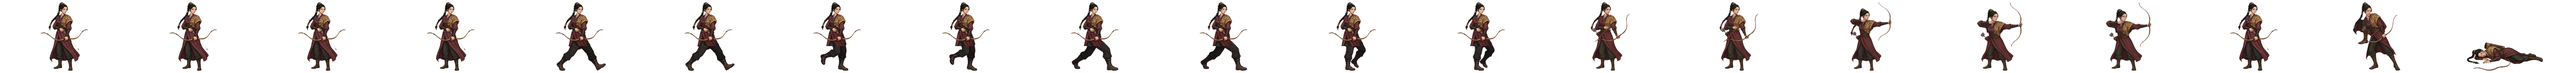
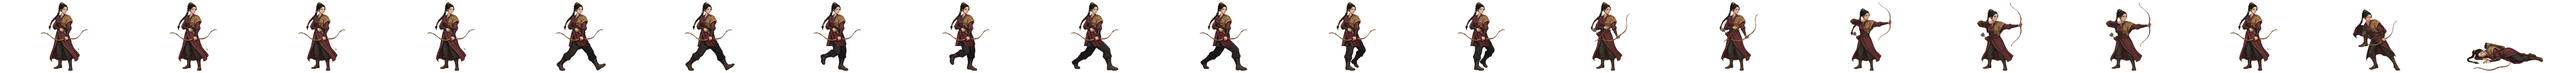
쇠눈 전투 20셀 띠 적용 · 단궁 피격 컷 세로로 늘어난 것 바로잡음
Claude-Session: https://claude.ai/code/session_01TRiuNAG8xSjdmjCFpc8Rd5

Changed region(s): [[0.9062, 0.0938, 0.9375, 0.6562], [0.9062, 0.7188, 0.9375, 0.8125]]

diff --git a/src/realm/data/art.ts b/src/realm/data/art.ts
@@ -495,9 +495,10 @@ export const GEN_ANIM: Readonly<Partial<Record<string, { ar: number; body: numbe
   beombal: { ar: 280 / 160, body: 0.9375 }, // 11-08 범발 · Codex 정규화 셀(대기·갯내 4실보행 하체·준비/찌르기/피격) + 아틀라스 우하단 쓰러짐 · 뺨 줄무늬는 오른쪽을 보는 몸의 왼뺨(원초상과 같은 쪽)
   hwalmi: { ar: 280 / 160, body: 0.9375, bow: true }, // 11-08 활미 · 제미나이 u/0 2×2 활 동작(준비·만작·발사) + 피격 + 새 대화 쓰러짐 · 갯내 4실보행 하체 · 교정 초상(점 없음) 기준
   dangung: { ar: 280 / 160, body: 0.9375, bow: true }, // 11-08 단궁 · 제미나이 u/0 2×2(준비·만작·발사·피격 · 칸 선은 지움) + 새 대화 쓰러짐 · 갯내 4실보행 하체(바지는 짙게) · 걷는 동안 긴 두루마기가 무릎 위로 짧아진다
+  soenun: { ar: 280 / 160, body: 0.9375 }, // 11-08 쇠눈 · 제미나이 u/2 2×2(겨눔·찌르기·거둠·피격) + 새 대화 쓰러짐 · 갯내 4실보행 하체(짙은 바지 · 걷는 동안 쇠 정강이받이는 장화로 보인다) · 창 자루는 걷기에도 남긴다
 }
 /** 제 그림이 있는 장수 (장수 id → gen-<이름>.png 의 이름) */
-export const GEN_OWN: Readonly<Record<string, string>> = { 'haseulla-ruler': 'dangung', 'goguryeo-2': 'hwalmi', 'maek-1': 'beombal', 'wander-04': 'sori', 'dongokjeo-2': 'sogeumbi', 'golbeol-2': 'budeul', 'michuhol-2': 'gaennae', 'jm-jumong': 'jumong', 'mh-onjo': 'onjo', 'tut-onjo': 'onjo', 'mh-soseono': 'soseono', 'sr-aryeong': 'aryeong', 'jm-haedal': 'haedal', 'buyeo-1': 'haedal', 'jm-songbi': 'songbi', 'biryuna-ruler': 'songbi', 'sr-hyeokgeose': 'hyeokgeose', 'jm-oi': 'oi', 'jm-mari': 'mari', 'jm-daeso': 'daeso', 'mh-eureum': 'eureum', 'mh-ogan': 'ogan', 'tut-ogan': 'ogan', 'goguryeo-ruler': 'damul', 'jm-songyang': 'songyang', chief: 'maenun', 'jm-hyeopbo': 'hyeopbo', 'tut-malgalgi': 'malgalgi', 'sabeol-1': 'malgalgi', 'tut-haebi': 'haebi', 'guya-3': 'soebi', 'anya-1': 'ara', 'gj-dana': 'ara', 'gj-heo': 'heo', 'gammun-2': 'gamsil' }
+export const GEN_OWN: Readonly<Record<string, string>> = { 'gwanna-2': 'soenun', 'haseulla-ruler': 'dangung', 'goguryeo-2': 'hwalmi', 'maek-1': 'beombal', 'wander-04': 'sori', 'dongokjeo-2': 'sogeumbi', 'golbeol-2': 'budeul', 'michuhol-2': 'gaennae', 'jm-jumong': 'jumong', 'mh-onjo': 'onjo', 'tut-onjo': 'onjo', 'mh-soseono': 'soseono', 'sr-aryeong': 'aryeong', 'jm-haedal': 'haedal', 'buyeo-1': 'haedal', 'jm-songbi': 'songbi', 'biryuna-ruler': 'songbi', 'sr-hyeokgeose': 'hyeokgeose', 'jm-oi': 'oi', 'jm-mari': 'mari', 'jm-daeso': 'daeso', 'mh-eureum': 'eureum', 'mh-ogan': 'ogan', 'tut-ogan': 'ogan', 'goguryeo-ruler': 'damul', 'jm-songyang': 'songyang', chief: 'maenun', 'jm-hyeopbo': 'hyeopbo', 'tut-malgalgi': 'malgalgi', 'sabeol-1': 'malgalgi', 'tut-haebi': 'haebi', 'guya-3': 'soebi', 'anya-1': 'ara', 'gj-dana': 'ara', 'gj-heo': 'heo', 'gammun-2': 'gamsil' }
 type GenLook = { readonly id?: string; readonly look: 'g' | 'w'; readonly traits: readonly string[]; readonly mu: number; readonly tong: number; readonly ryak: number; readonly chi: number; readonly deok: number }
 /**
  * 장수 → 싸움터에 설 그림 (순수). 제 그림이 있으면 그것 · 명궁이면 활 · 통솔이 가장 높고 비기가 날 만큼(tacArtMinStat) 높은 남자는 말 탄 장수 ·

diff --git a/src/ui/realm/battle-strikes.ts b/src/ui/realm/battle-strikes.ts
@@ -151,6 +151,7 @@ const CONTACT: Readonly<Record<string, [number, number, number]>> = {
   'gen-beombal': [14, 248 / 280, 51 / 160],
   'gen-hwalmi': [14, 204 / 280, 50 / 160],
   'gen-dangung': [14, 200 / 280, 45 / 160],
+  'gen-soenun': [14, 267 / 280, 54 / 160],
 }
 
 const HEAVY_SWINGS = new Set(['axe', 'gen-soebi', 'gen-haebi', 'gen-gamsil'])

diff --git a/docs/realm/SPRITE-SOENUN.md b/docs/realm/SPRITE-SOENUN.md
@@ -1,0 +1,7 @@
+# 관나 쇠눈 비각성 전투 애니메이션 (11-08 Claude)
+
+- 게임 ID `gwanna-2`, 초상 `w-42-gwanna-soenun`, 여성 27세, 양손 긴 창. 띠 `public/realm/anim2/gen-soenun.png` 280×160×20, `GEN_ANIM.soenun` ar 1.75 / body .9375, 창끝 접촉 frame 14 (267, 54).
+- 원본(assets_src/realm/gemini/battle): `soenun-actions-source.png`(u/2 새 대화 한 번 · 1:1 · 겨눔·찌르기·거둠·피격 · 옅은 칸 선은 지움) · `soenun-fall2-source.png`(u/2 새 대화 · 누운 몸과 떨어진 창). 대화 u/2 `222003acf6808775` · `e11f21bac31ad74c`.
+- 대기는 Codex 11-07 `soenun-ready-final-candidate.png`, 걷기는 갯내 4실보행 하체(바지 빛 짙게) 위에 쇠눈 상체(y≤100) + 몸 왼쪽 아래로 내려온 창 자루(x<64)를 남겼다. **걷는 동안 쇠 정강이받이가 장화로 보인다.**
+- 동작 셀은 모두 준비 컷과 같은 배율(찌르기·거둠·피격). 11-08 단궁 피격이 세로로 늘어나 있던 버그(높이를 150 에 고정)도 같이 고쳐 다시 묶었다.
+- 검수: 20셀 · 걷기 1/5 반대 다리 · 창은 늘 두 손 · 실제 전투 재생은 미검수. 구름 w-49 는 발끝까지 내려오는 흰 비단 치마라 바지 하체를 못 쓴다 — 이랑과 같은 이유로 HOLD.
